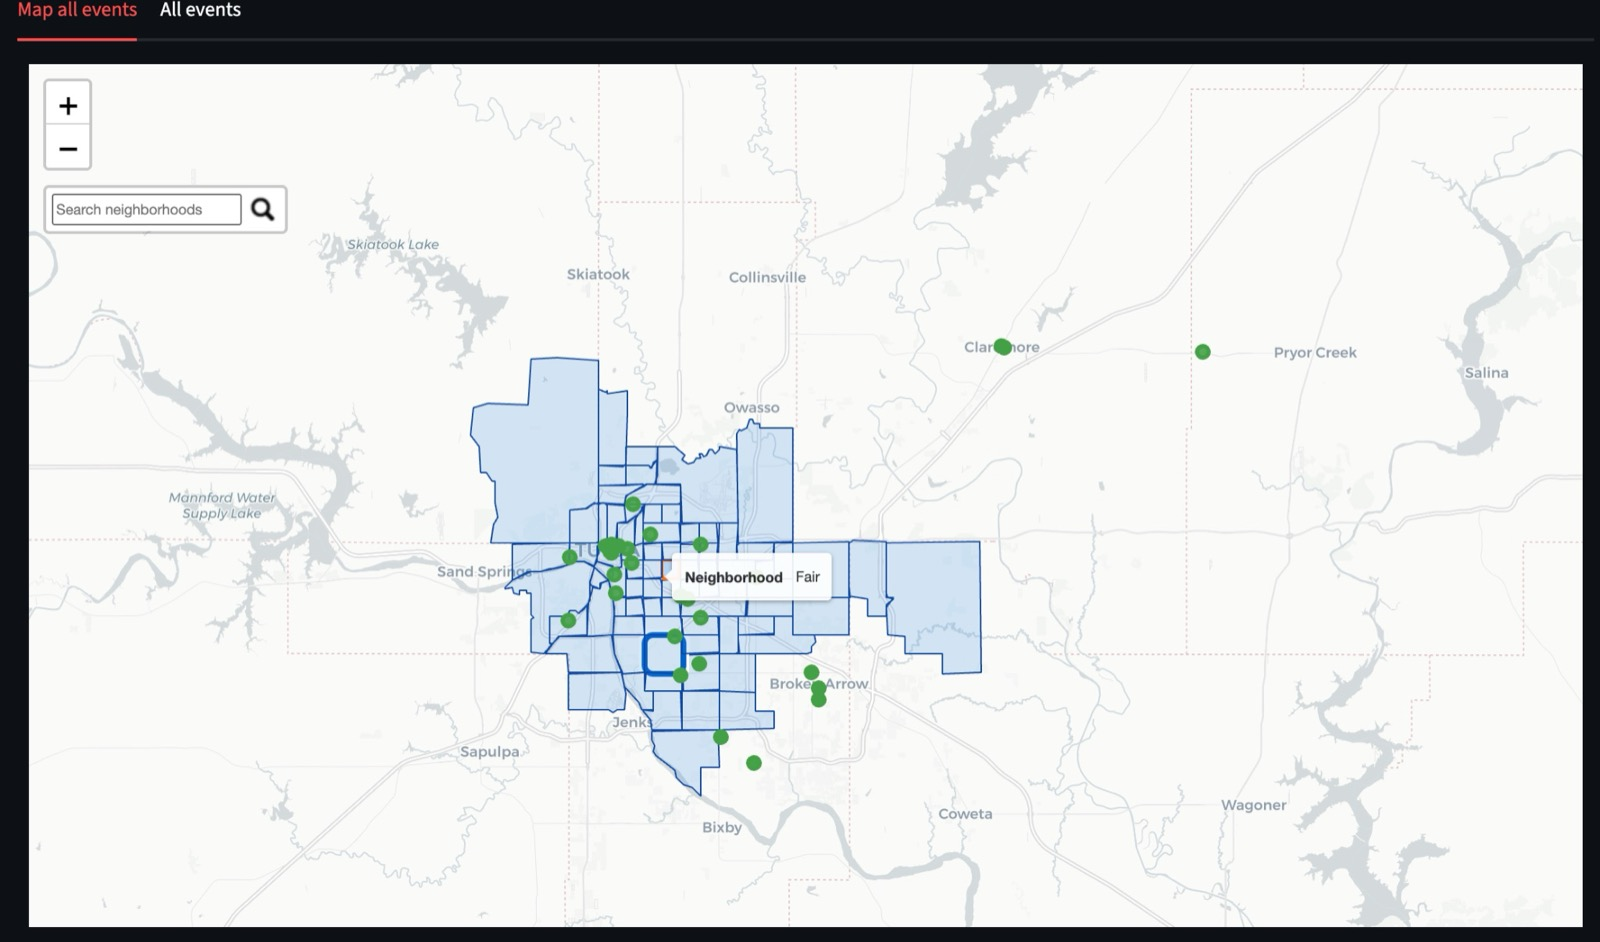
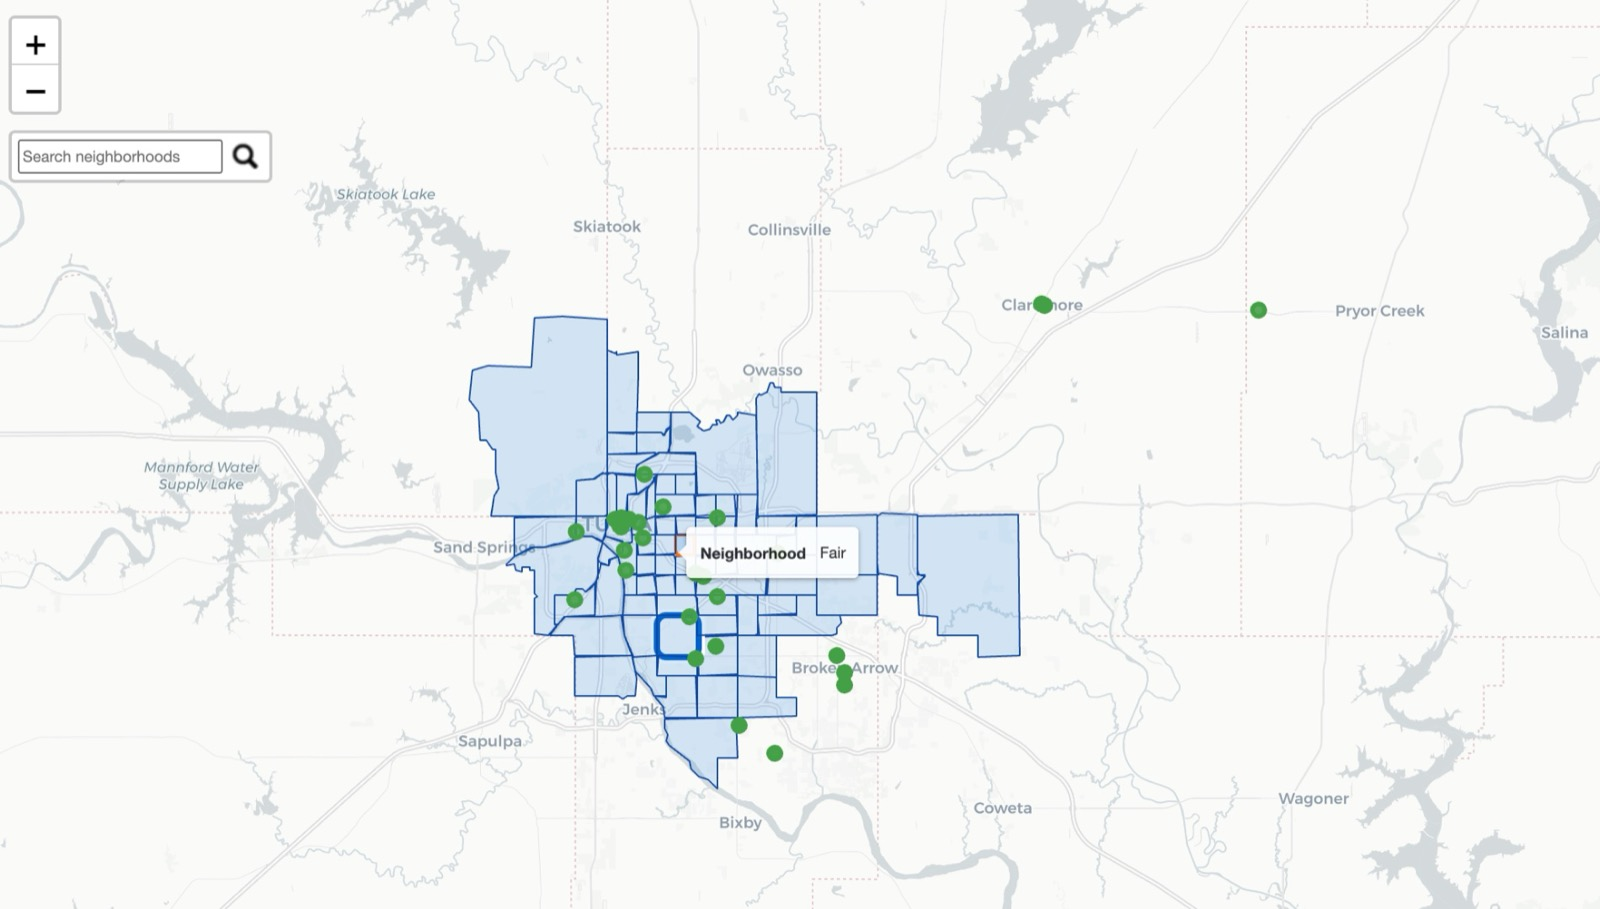
Tulsa thumbnail cropped to the map; tagline order

diff --git a/index.html b/index.html
@@ -3,12 +3,12 @@
 <head>
   <meta charset="utf-8">
   <meta name="viewport" content="width=device-width, initial-scale=1">
-  <title>Lochan Pranav, product designer and spatial data scientist</title>
-  <meta name="description" content="Product designer and spatial data scientist in Brooklyn: spatial analysis, machine learning and interface design for cities. GIS work, brand and campaign design, UI/UX case studies and industrial design.">
+  <title>Lochan Pranav, spatial data scientist and product designer</title>
+  <meta name="description" content="Spatial data scientist and product designer in Brooklyn: spatial analysis, machine learning and interface design for cities. GIS work, brand and campaign design, UI/UX case studies and industrial design.">
   <link rel="preconnect" href="https://fonts.googleapis.com">
   <link rel="preconnect" href="https://fonts.gstatic.com" crossorigin>
   <link href="https://fonts.googleapis.com/css2?family=Bricolage+Grotesque:opsz,wght@12..96,500..800&family=Hanken+Grotesk:wght@400;500;600&family=JetBrains+Mono:wght@400;500&display=swap" rel="stylesheet">
-  <meta property="og:title" content="Lochan Pranav, product designer and spatial data scientist">
+  <meta property="og:title" content="Lochan Pranav, spatial data scientist and product designer">
   <meta property="og:description" content="GIS analysis, brand and campaign design, UI/UX case studies and industrial design.">
   <meta property="og:type" content="website">
   <meta name="twitter:card" content="summary">
@@ -35,7 +35,7 @@
   <header class="hero wrap" data-stagger>
     <span class="eyebrow reveal">Brooklyn, NY · M.S. Urban Data Science, NYU Tandon</span>
     <h1 class="reveal name">Lochan Pranav</h1>
-    <p class="tagline reveal">Product designer and spatial data scientist.</p>
+    <p class="tagline reveal">Spatial data scientist and product designer.</p>
     <p class="reveal">I work on the layer between city data and the people who use it. On one side, spatial analysis and machine learning in GIS and Python. On the other, interfaces that make the findings usable. Trained in product design, now finishing an M.S. in Urban Data Science at NYU.</p>
     <dl class="facts reveal">
       <div><dt>Education</dt><dd><span>M.S. Urban Data Science, NYU Tandon, May 2027</span><span>B.Des Product Design, MIT World Peace University, 2024</span></dd></div>
